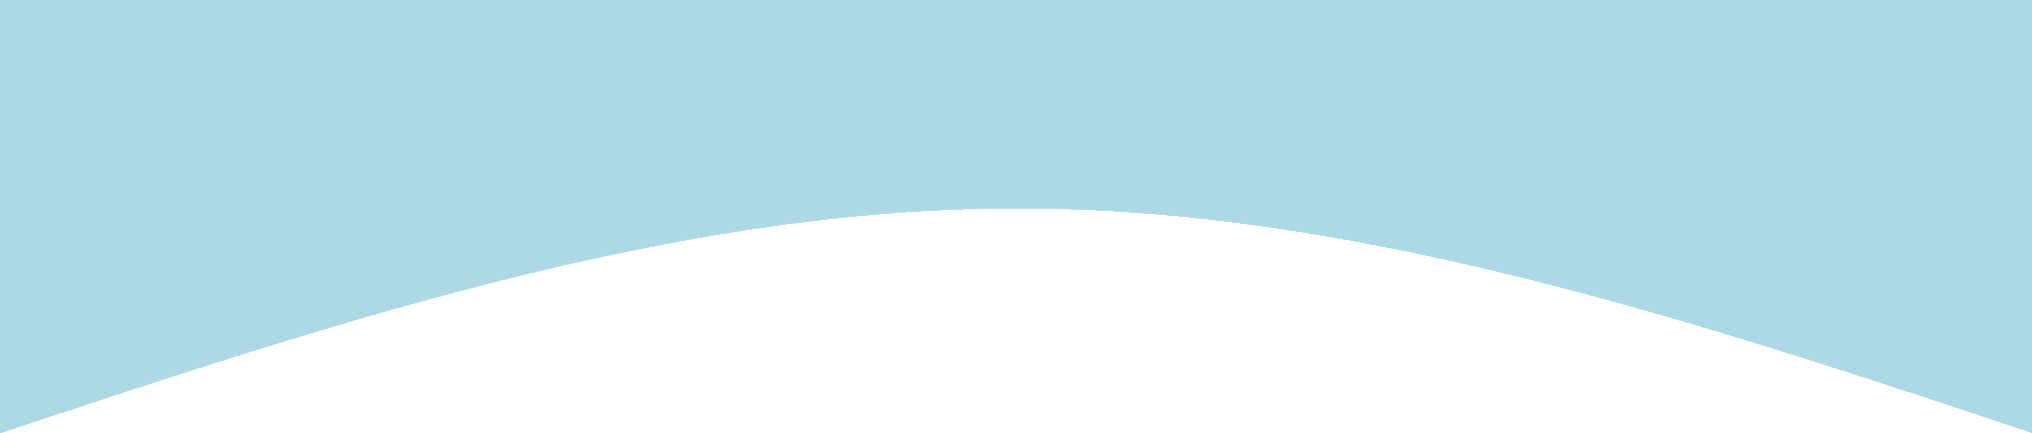
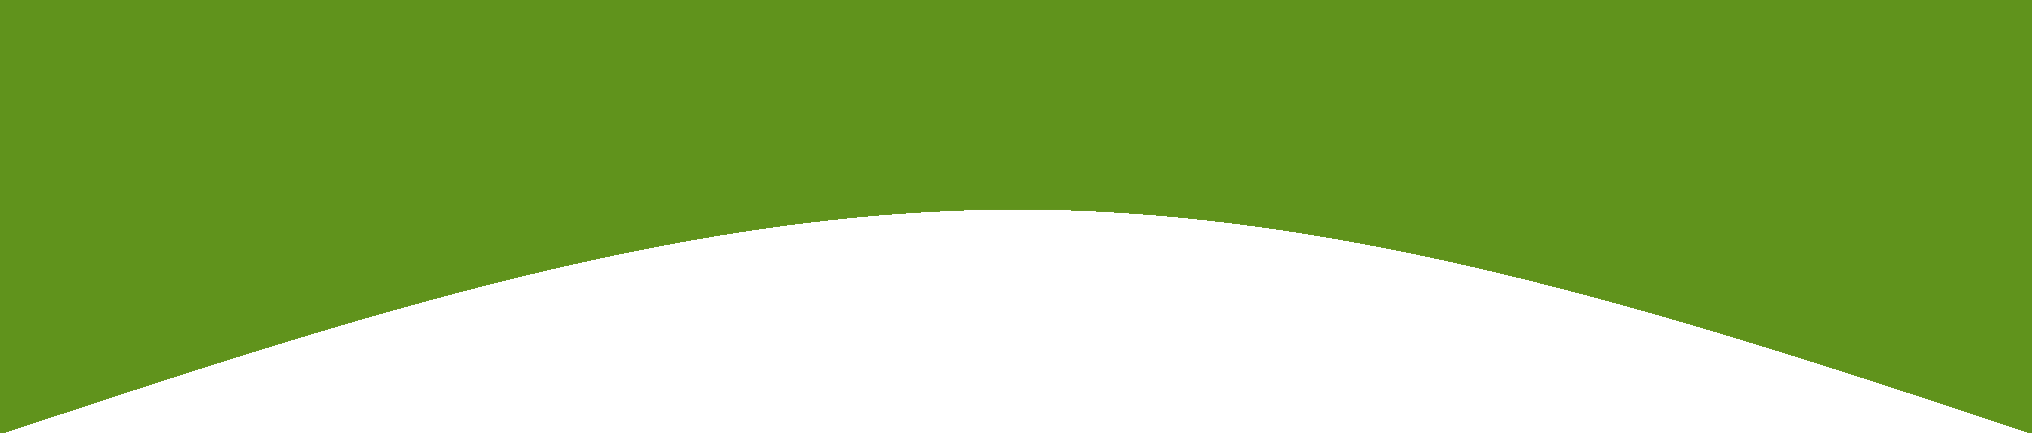
added usps to top of page

diff --git a/views/indexV0.2.html b/views/indexV0.2.html
@@ -73,6 +73,15 @@
     </header>
    
     <main class = "content">
+        <div align = "center">
+            <img src = "../static/images/resultsIn5Days.PNG" class = "uspsImage">
+            <img src = "../static/images/thousandsHelped.PNG" class = "uspsImage">
+            <img src = "../static/images/4in1Test.PNG" class = "uspsImage">
+            <img src = "../static/images/1stCommercial.PNG" class = "uspsImage">
+            <img src = "../static/images/numberOneChoice.PNG" class = "uspsImage">
+            <img src = "../static/images/noHiddenCosts.PNG" class = "uspsImage">
+            <img src = "../static/images/talkToAnActualPerson.PNG" class = "uspsImage">
+        </div>
 
        <!--top image and text-->
         <div class="scrollContent" style="max-width:80%;">
@@ -186,7 +195,7 @@
     </main>
 
     <footer align="center" class = "footer" class = "footer">
-        <div>
+        <div style = "padding: 1vw">
             <a href="#" class="fa fa-facebook"></a>
             <a href="#" class="fa fa-twitter"></a>
             <a href="#" class="fa fa-instagram"></a>

diff --git a/static/styles.css b/static/styles.css
@@ -59,6 +59,10 @@
     margin-right:5vw
 }
 
+.uspsImage{
+    padding: 2vw;
+}
+
 .badge{
     background-color:#000;
     color:#fff;
@@ -195,10 +199,12 @@
 }
 
 .productBar{
-    background-color:#add8e6;
+    background-color:#60931c;
     padding-top: 3vw
     
 }
+
+ 
 .productBox{
     width:300px;
     background-color: rgb(182, 182, 212);
